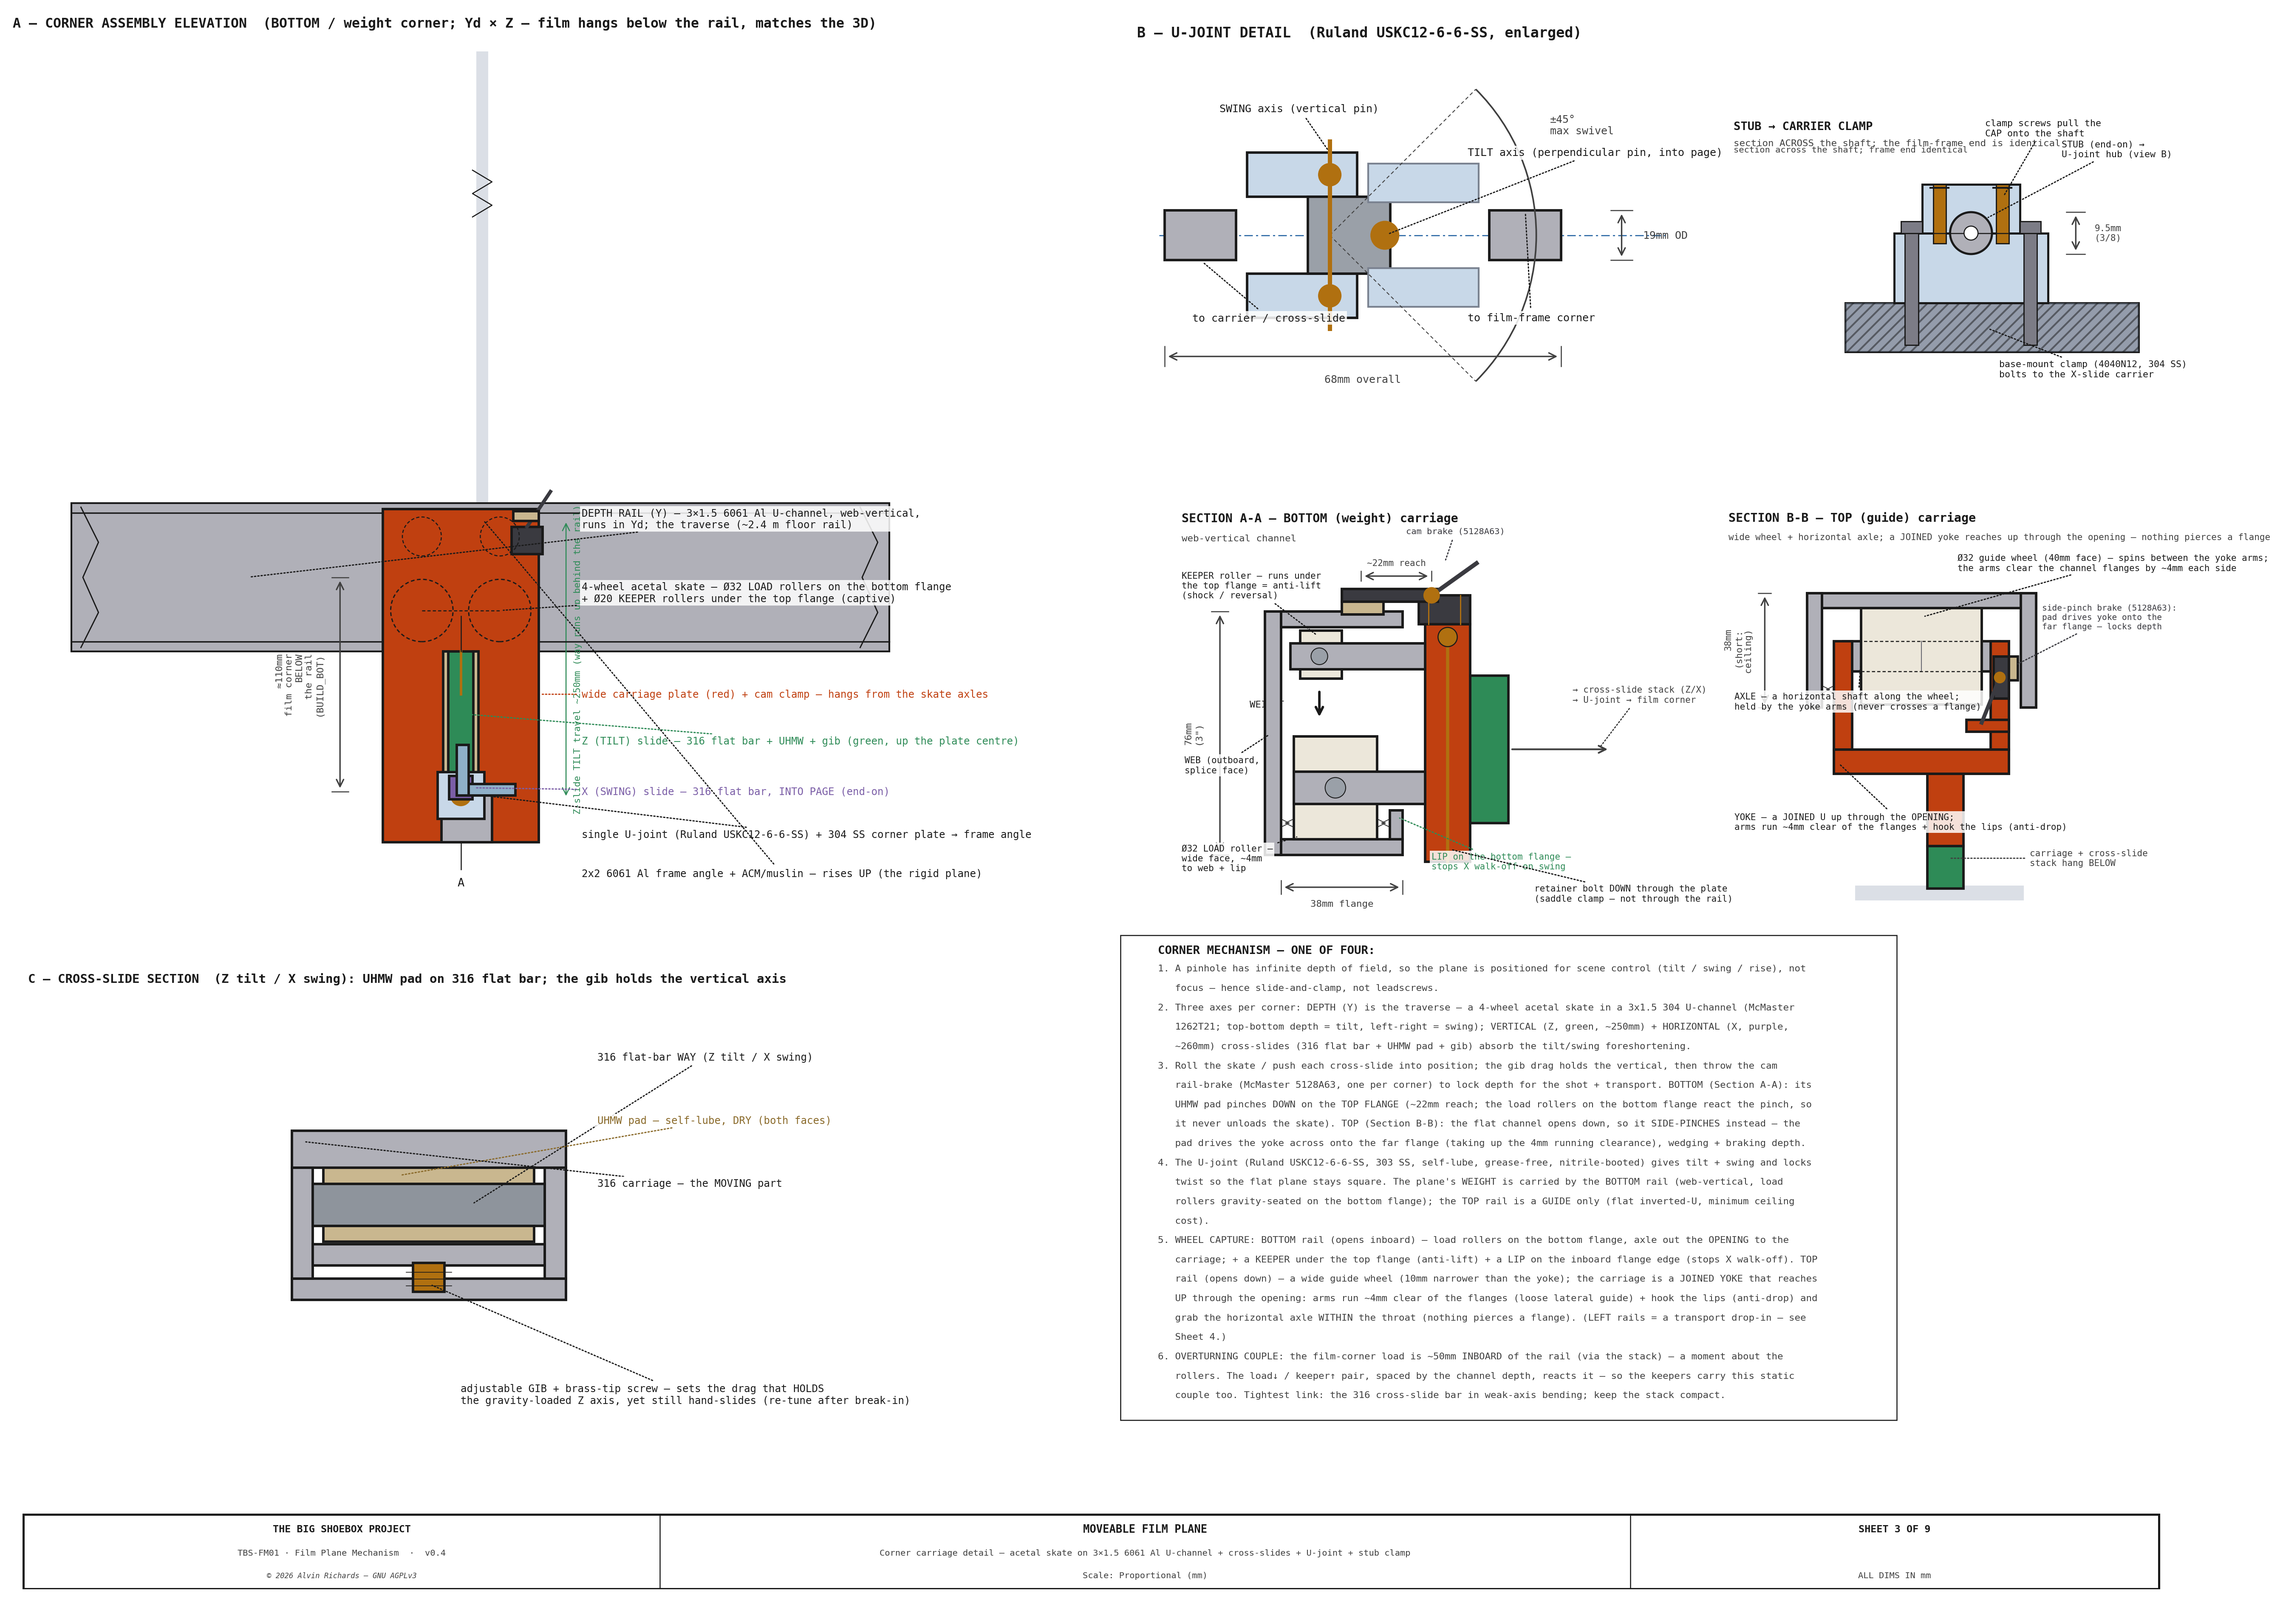
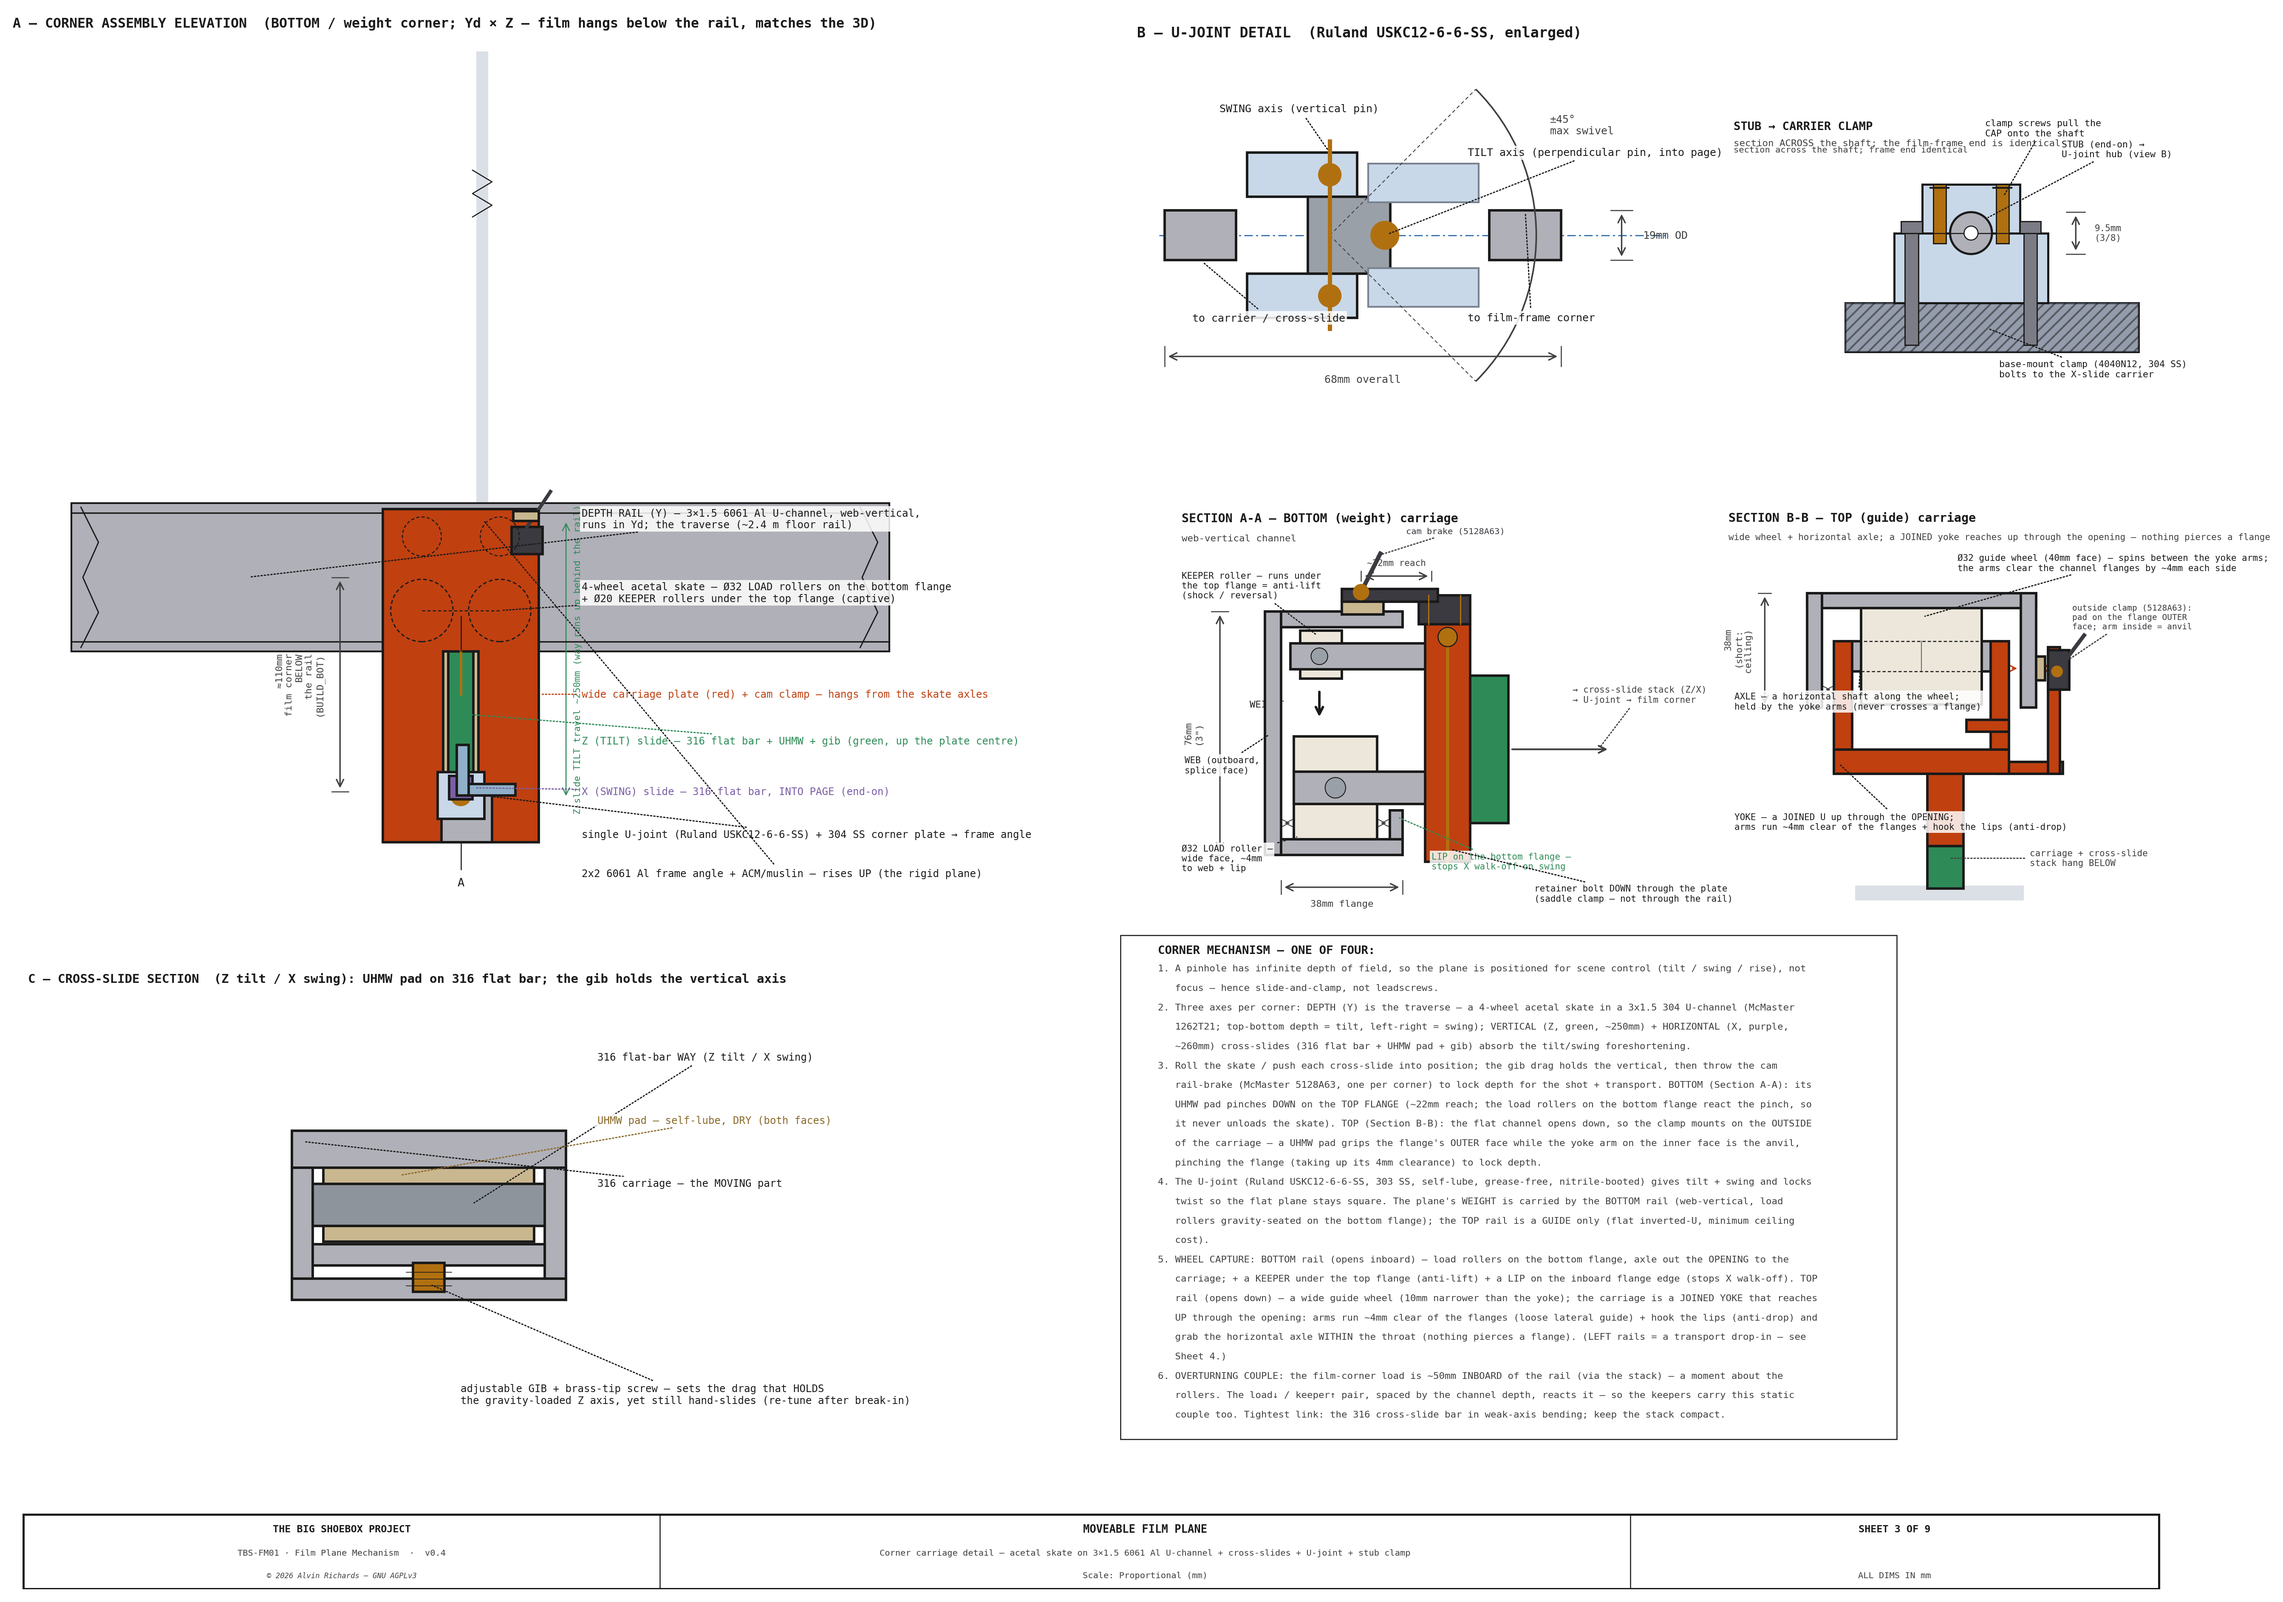
Sheet 3 brakes: align bottom lever over the rubber; top = OUTSIDE clamp
Bottom (A-A): move the cam pivot + lever directly over the UHMW pad.
Top (B-B): replace the impractical inside side-pinch with an external clamp —
a bracket off the carriage wraps outside the flange, the pad bites the flange
OUTER face, the inside yoke arm is the anvil. Note 3 + labels updated.

Changed region(s): [[0.5284, 0.7138, 0.777, 0.9], [0.8703, 0.3724, 0.9635, 0.4966], [0.6216, 0.3414, 0.6527, 0.3724]]

diff --git a/src/generators/generate_film_plane_mechanism.py b/src/generators/generate_film_plane_mechanism.py
@@ -848,12 +848,12 @@ def section_aa(ax):
     for _mbx in (51, 61):
         ax.plot([_mbx, _mbx], [72, 81], color=C_PIN, lw=0.7, zorder=10)  # 2× M5 mount bolts into the plate
     _rect(ax, 24, 79, 30, 4, C_CLAMP, z=9)                             # clamp ARM (reaches over the flange)
-    draw_circle(ax, 52, 81, 2.4, color=C_PIN, fill=True, fc=C_PIN, lw=0.6, zorder=11)  # cam pivot
-    ax.plot([52, 66], [81, 91], color=C_CLAMP, lw=2.4, zorder=10)      # cam LEVER handle (thrown = locked)
+    draw_circle(ax, 30, 82, 2.4, color=C_PIN, fill=True, fc=C_PIN, lw=0.6, zorder=11)  # cam pivot — over the pad
+    ax.plot([30, 36], [82, 94], color=C_CLAMP, lw=2.4, zorder=10)      # cam LEVER handle (over the rubber; thrown = locked)
     _rect(ax, 24, 75, 13, 4, C_POLY, z=10)                             # UHMW pad — bites DOWN on the top flange
     ax.annotate("", xy=(30, 75), xytext=(30, 83), arrowprops=dict(arrowstyle="->", color=C_CAR, lw=1.3, zorder=11))
     draw_dim_h(ax, 30, 52, 87, "~22mm reach", offset=5, fs=5.0, color=DIM, font=FONT)  # mount → pad (5128A63)
-    leader(ax, 56, 91, 44, 101, "cam brake (5128A63)", ha="left", fs=4.9, color=C_CLAMP, font=FONT, bbox=LBL_BG)
+    leader(ax, 34, 93, 44, 101, "cam brake (5128A63)", ha="left", fs=4.9, color=C_CLAMP, font=FONT, bbox=LBL_BG)
     # seating + lift arrows
     ax.annotate("", xy=(17, 42), xytext=(17, 52), arrowprops=dict(arrowstyle="->", color=OUT, lw=1.4))
     ax.text(6, 47, "WEIGHT", fontsize=5.4, ha="right", va="center", color=OUT, **FONT)
@@ -899,15 +899,19 @@ def section_top(ax):
         _rect(ax, ax_x, -14, 6, 36, C_CAR, z=8)                                      # yoke arm (through opening, ~4mm off a flange)
     _rect(ax, 9, -22, 58, 8, C_CAR, z=8)                                             # cross-piece JOINS the two arms
     _rect(ax, 53, -8, 14, 4, C_CAR, z=9)                                             # inboard lip-hook (anti-drop)
-    # SIDE-PINCH CAM RAIL-BRAKE (fp-cam-clamp, McMaster 5128A63) on the right yoke arm — a cam drives a UHMW
-    # pad OUTBOARD against the far flange's inner face; the reaction wedges the LEFT arm on the left flange, so
-    # the yoke locks laterally + brakes depth (takes up the 4mm running clearance). Thrown for shot + transport.
-    _rect(ax, 62, 3, 5, 14, C_CLAMP, z=10)                                           # cam body on the right arm
-    _rect(ax, 67, 9, 3, 8, C_POLY, z=11)                                             # UHMW pad — driven against the flange
-    draw_circle(ax, 64, 10, 1.8, color=C_PIN, fill=True, fc=C_PIN, lw=0.5, zorder=12)  # cam pivot
-    ax.plot([64, 58], [10, -5], color=C_CLAMP, lw=2.2, zorder=11)                     # cam lever (thrown = locked)
-    ax.annotate("", xy=(71, 13), xytext=(67, 13), arrowprops=dict(arrowstyle="->", color=C_CAR, lw=1.2, zorder=12))  # pad → flange
-    leader(ax, 69, 14, 78, 30, "side-pinch brake (5128A63):\npad drives yoke onto the\nfar flange — locks depth", ha="left", fs=4.7, color=C_CLAMP, font=FONT, bbox=LBL_BG)
+    # OUTSIDE CLAMP RAIL-BRAKE (fp-cam-clamp, McMaster 5128A63) — mounted on the OUTSIDE of the carriage (a
+    # bracket off the yoke wraps below the flange and rises OUTSIDE it), the cam drives a UHMW pad against the
+    # flange's OUTER face; the yoke arm on the flange's INNER face is the anvil, so the flange is pinched from
+    # outside (takes up its 4mm clearance) → depth locked. Lever is outboard = reachable. Thrown for shot + transport.
+    _rect(ax, 63, -22, 22, 4, C_CAR, z=7)                                            # bracket — wraps out below the flange
+    _rect(ax, 80, -22, 4, 42, C_CAR, z=7)                                            # bracket riser — OUTSIDE the flange
+    _rect(ax, 80, 6, 7, 13, C_CLAMP, z=9)                                            # clamp body (outboard)
+    _rect(ax, 76, 9, 3, 8, C_POLY, z=10)                                             # UHMW pad — bites the flange OUTER face
+    draw_circle(ax, 83, 12, 1.8, color=C_PIN, fill=True, fc=C_PIN, lw=0.5, zorder=11)  # cam pivot
+    ax.plot([83, 92], [12, 24], color=C_CLAMP, lw=2.2, zorder=10)                     # cam lever (outboard = reachable)
+    ax.annotate("", xy=(76, 13), xytext=(80, 13), arrowprops=dict(arrowstyle="->", color=C_CAR, lw=1.2, zorder=11))  # pad → flange (inward)
+    ax.annotate("", xy=(71, 13), xytext=(67, 13), arrowprops=dict(arrowstyle="->", color=C_CAR, lw=0.8, zorder=6))    # arm = inner anvil
+    leader(ax, 84, 14, 88, 30, "outside clamp (5128A63):\npad on the flange OUTER\nface; arm inside = anvil", ha="left", fs=4.7, color=C_CLAMP, font=FONT, bbox=LBL_BG)
     # carriage + stack hang from the joined yoke
     _rect(ax, 40, -46, 12, 24, C_CAR, z=6)                                           # carriage plate (below the yoke)
     _rect(ax, 40, -60, 12, 14, C_TILT, z=5)                                          # cross-slide (green) hangs below
@@ -991,8 +995,8 @@ def sheet3():
         "throw the cam rail-brake (McMaster 5128A63, one per corner) to lock depth for the shot + transport. "
         "BOTTOM (Section A-A): its UHMW pad pinches DOWN on the TOP FLANGE (~22mm reach; the load rollers on the "
         "bottom flange react the pinch, so it never unloads the skate). TOP (Section B-B): the flat channel opens "
-        "down, so it SIDE-PINCHES instead — the pad drives the yoke across onto the far flange (taking up the 4mm "
-        "running clearance), wedging + braking depth.",
+        "down, so the clamp mounts on the OUTSIDE of the carriage — a UHMW pad grips the flange's OUTER face while "
+        "the yoke arm on the inner face is the anvil, pinching the flange (taking up its 4mm clearance) to lock depth.",
         "4. The U-joint (Ruland USKC12-6-6-SS, 303 SS, self-lube, grease-free, nitrile-booted) gives "
         "tilt + swing and locks twist so the flat plane stays square. The plane's WEIGHT is carried by "
         "the BOTTOM rail (web-vertical, load rollers gravity-seated on the bottom flange); the TOP rail "
